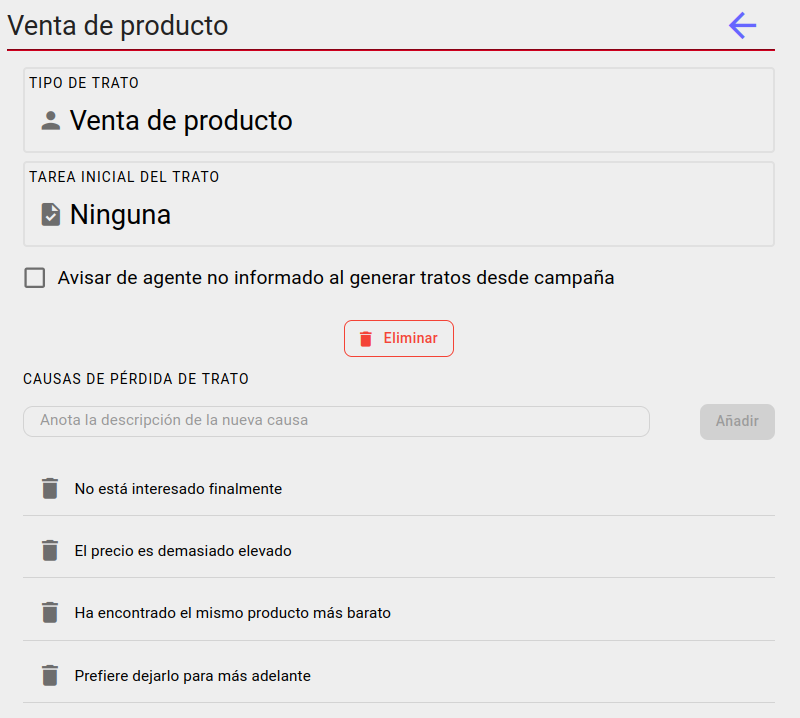
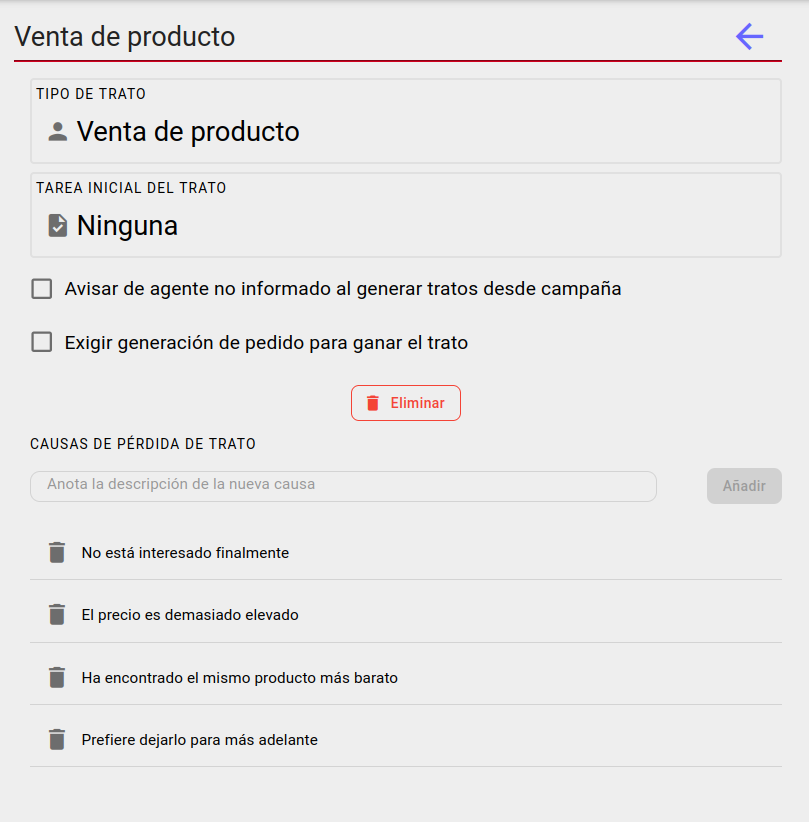
feat(SAN): Añadido a manual 'tipos de trato' sección 'Exigir generación de pedido para ganar trato'.

diff --git a/proyectos/san/area_facturacion/smart_sales/tipostrato.md b/proyectos/san/area_facturacion/smart_sales/tipostrato.md
@@ -10,6 +10,10 @@ Para los tipo de tratos que tienen asignado un agente por defecto para los trato
 
 Si este check está marcado al generar tratos automáticamnete desde una campaña se comprobará si la misma tiene informado el campo *agente tratos* y si no es así se mostrará un mensaje de aviso. 
 
+## Exigir generación de pedido para ganar trato
+
+Si este check está marcado el botón 'Ganado' estará deshabilitado. De modo que tendremos que generar un pedido o generar un presupuesto y aprobarlo generando un pedido para ganar el trato. 
+
 
 ## Añadir causas de perdida de trato
 
